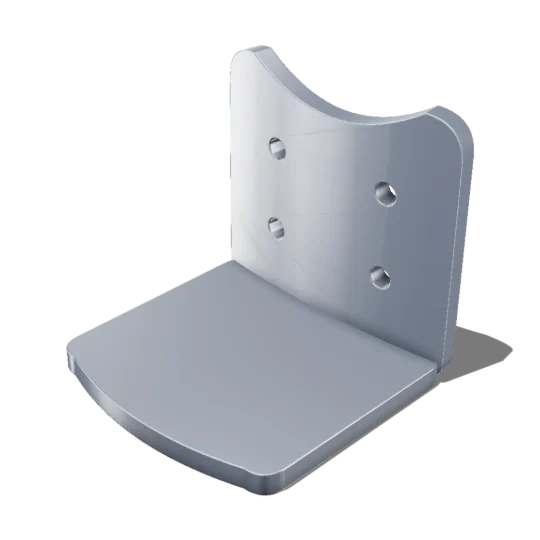
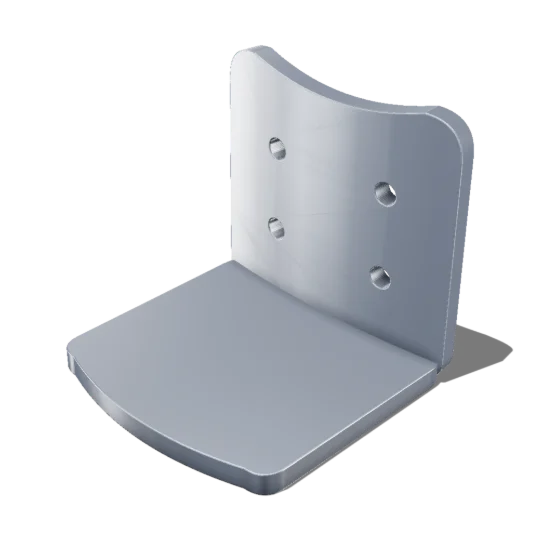
브래킷 파임을 3.0 에서 1.5 로 줄였다
유신: "이거 너무 많이 팠잖아 영상에서는 밑으로 살짝 파졌는데 윗부분 …
       이거 너무 깊게 팠어"

방향은 맞췄는데 깊이를 과하게 잡았다. 판 높이(24)의 12.5% → 6%.

■ 같은 사진 한 장에 두 번 속았다

방향도 깊이도 접사 DSC03414 하나만 보고 정했다. 그 사진은 비스듬히 위에서
찍은 것이라 오목한 곡선이 실제보다 깊어 보인다. 메모리에 적어 둔 "비스듬한
접사는 먼 쪽이 작아 보이고 가장자리가 앞으로 나와 보인다" 가 곡률에도 그대로
적용된다는 것을 놓쳤다.

⚠ 이 부품은 단독 접사가 셋뿐이고 윗변이 보이는 것은 한 장이다 — 03413 은
   옆면, 03415 는 뒤쪽이다. 각도가 하나뿐일 때는 영상을 함께 봐야 한다.

■ 영상을 봤다

part-bracket.mp4 를 ffmpeg 로 초당 한 장씩 뽑아(7장) 왼쪽 통에 쌓인 부품을
확대하니 윗변이 거의 직선에 가까울 만큼 얕았다. 유신이 "영상에서는 밑으로
살짝" 이라고 한 그대로다.

1.0 · 1.5 · 2.0 을 지금(3.0) · 접사 · 영상 프레임과 한 장에 놓고 1.5 를 골랐다.
1.0 은 거의 안 보이고 2.0 은 아직 뚜렷하다.

깊이만 바꿨다. 모서리 라운드(rt 3.4) · 구멍 넷 · 누운 면 · 두께 · 폭은 그대로다.
세 판(솟음 → DIP3.0 → DIP1.5)을 나란히 찍어 확인했다.

214px 카드에서도 "살짝 파인" 정도로 읽힌다. 12.4KB.
열한 쪽 ✓33 · 히어로 넘침 0.

Changed region(s): [[0.4741, 0.0889, 0.8, 0.237]]

diff --git a/src/app/page.tsx b/src/app/page.tsx
@@ -510,6 +510,20 @@ const PARTS = [
                 ⚠ `partshapes.mjs` 의 변수 이름도 `AR`(아치 솟음) → **`DIP`**
                    (파임)으로 바꿨다. 뜻이 뒤집혔는데 이름이 그대로면 다음 판이
                    또 거꾸로 읽는다.
+                ⚠⚠⚠ **2026-10-16(9) — 그 DIP 3.0 이 너무 깊었다. 네 번째.**
+                   *"이거 **너무 많이 팠잖아** 영상에서는 **밑으로 살짝 파졌는데**"*
+                   → **DIP 3.0 → 1.5**(판 높이의 12.5% → 6%).
+                   ⚠⚠ **같은 사진 한 장에 두 번 속았다.** 방향도 깊이도
+                      `DSC03414` 하나만 보고 정했는데, 그 사진은 **비스듬히
+                      위에서** 찍은 것이라 **오목한 곡선이 실제보다 깊어 보인다.**
+                      메모리에 적어 둔 *"비스듬한 접사는 … 가장자리가 앞으로
+                      나와 보인다"* 가 **곡률에도 그대로 적용**된다는 것을
+                      놓쳤다.
+                   ⚠ **이 부품은 단독 접사가 셋뿐이고 윗변이 보이는 것은 한
+                      장**이다(03413 은 옆면, 03415 는 뒤쪽). 각도가 하나뿐일
+                      때는 **영상을 함께 봐야 한다** — `part-bracket.mp4` 를
+                      ffmpeg 로 초당 한 장씩 뽑아 왼쪽 통의 부품을 확대하니
+                      윗변이 **거의 직선에 가까울 만큼 얕았다.**
           ③ 누운 면 끝의 것은 **튀어나온 탭이 아니라 파인 홈(노치)** 이다.
              내가 BoxGeometry 를 더해 혹을 붙여 뒀었다 — 정반대였다.
        ⚠⚠⚠ **2026-10-16(7) — 또 셋.** *"밑에 **세모로 짤린거는 없고**
